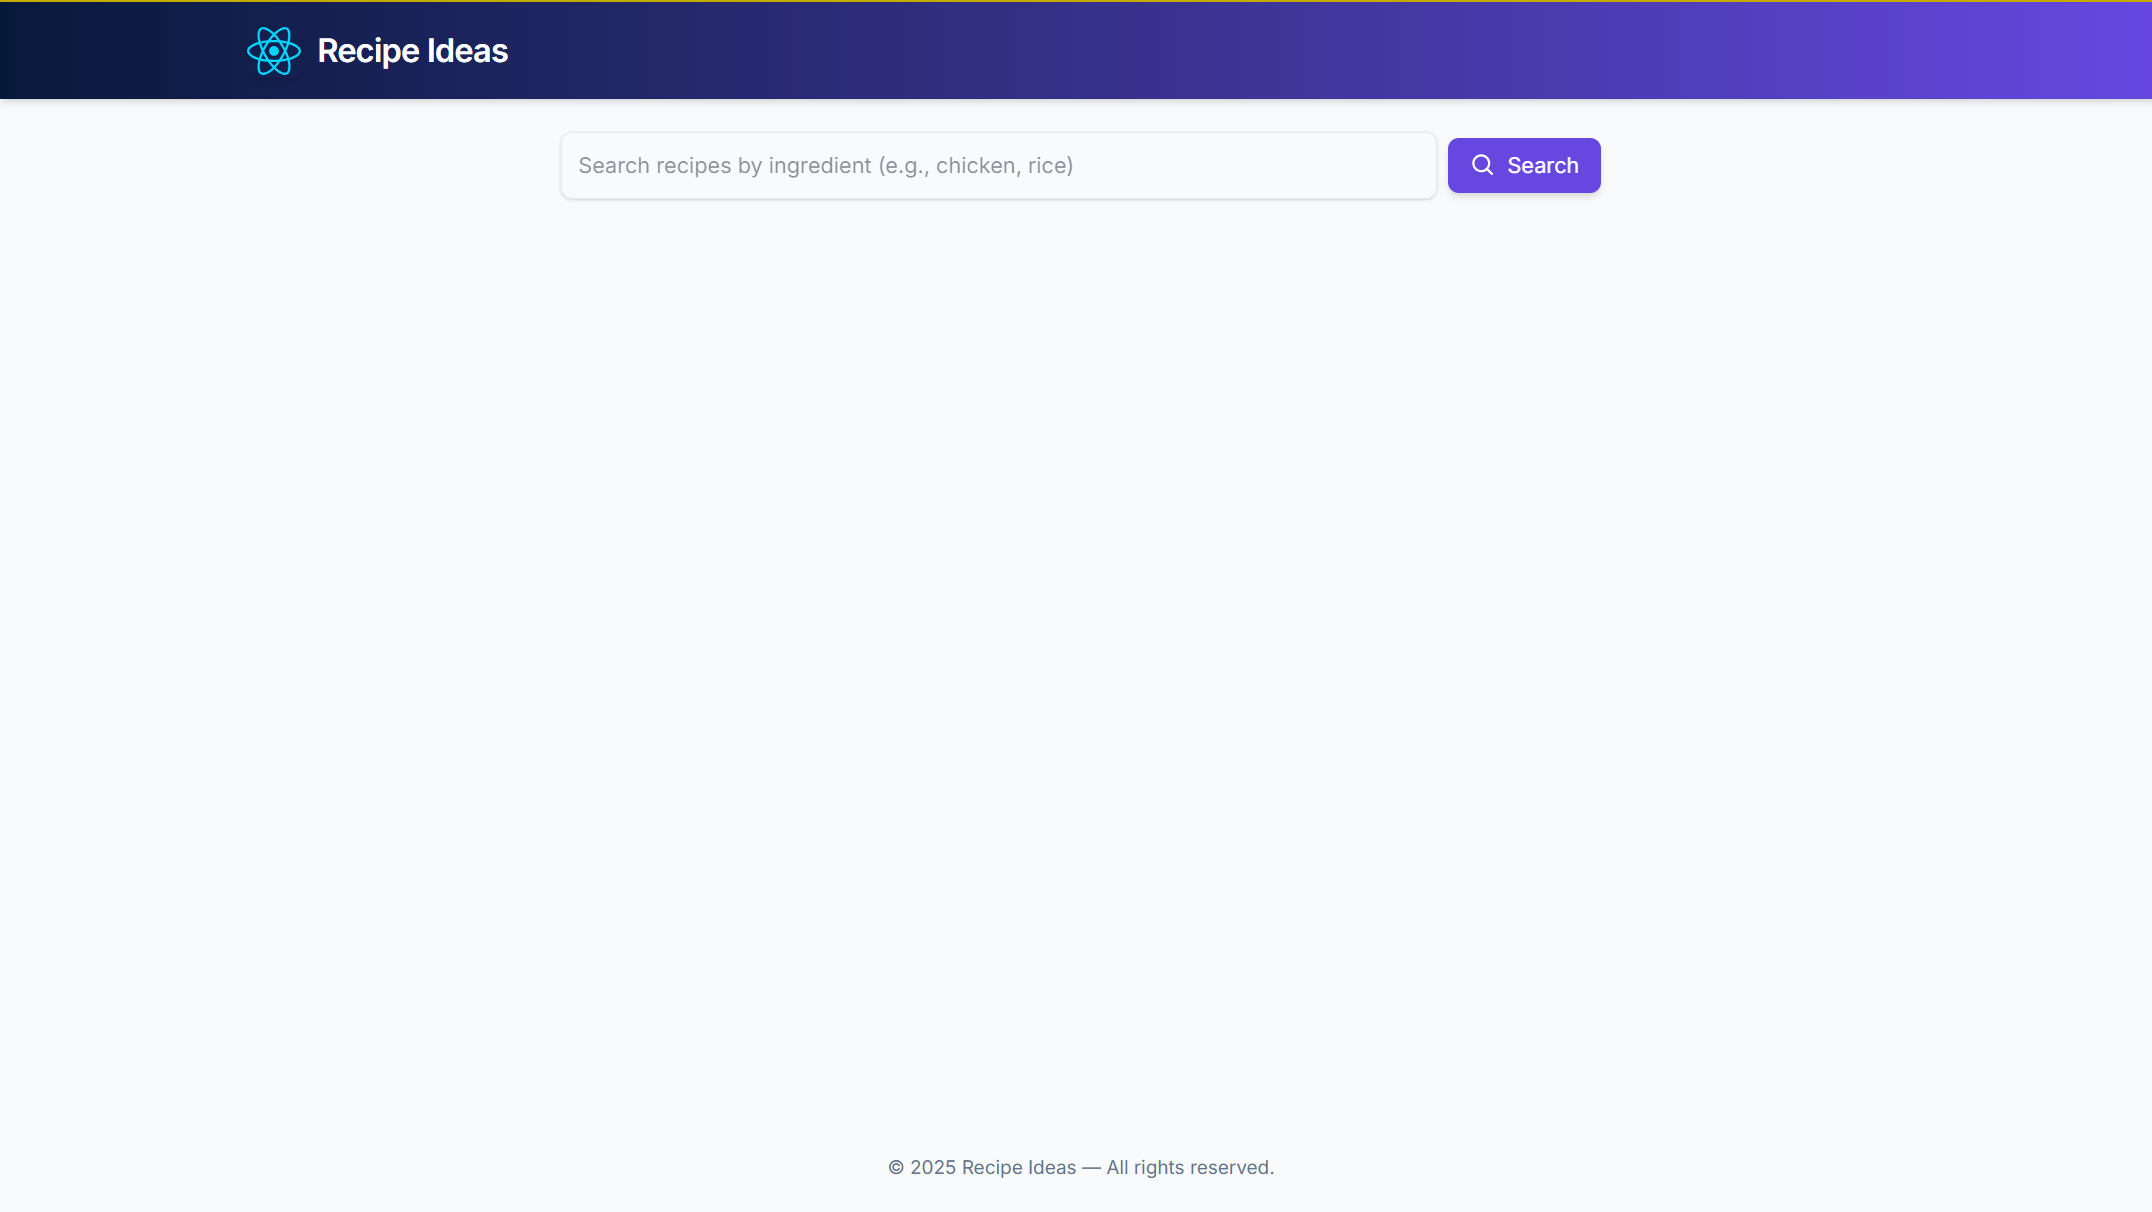
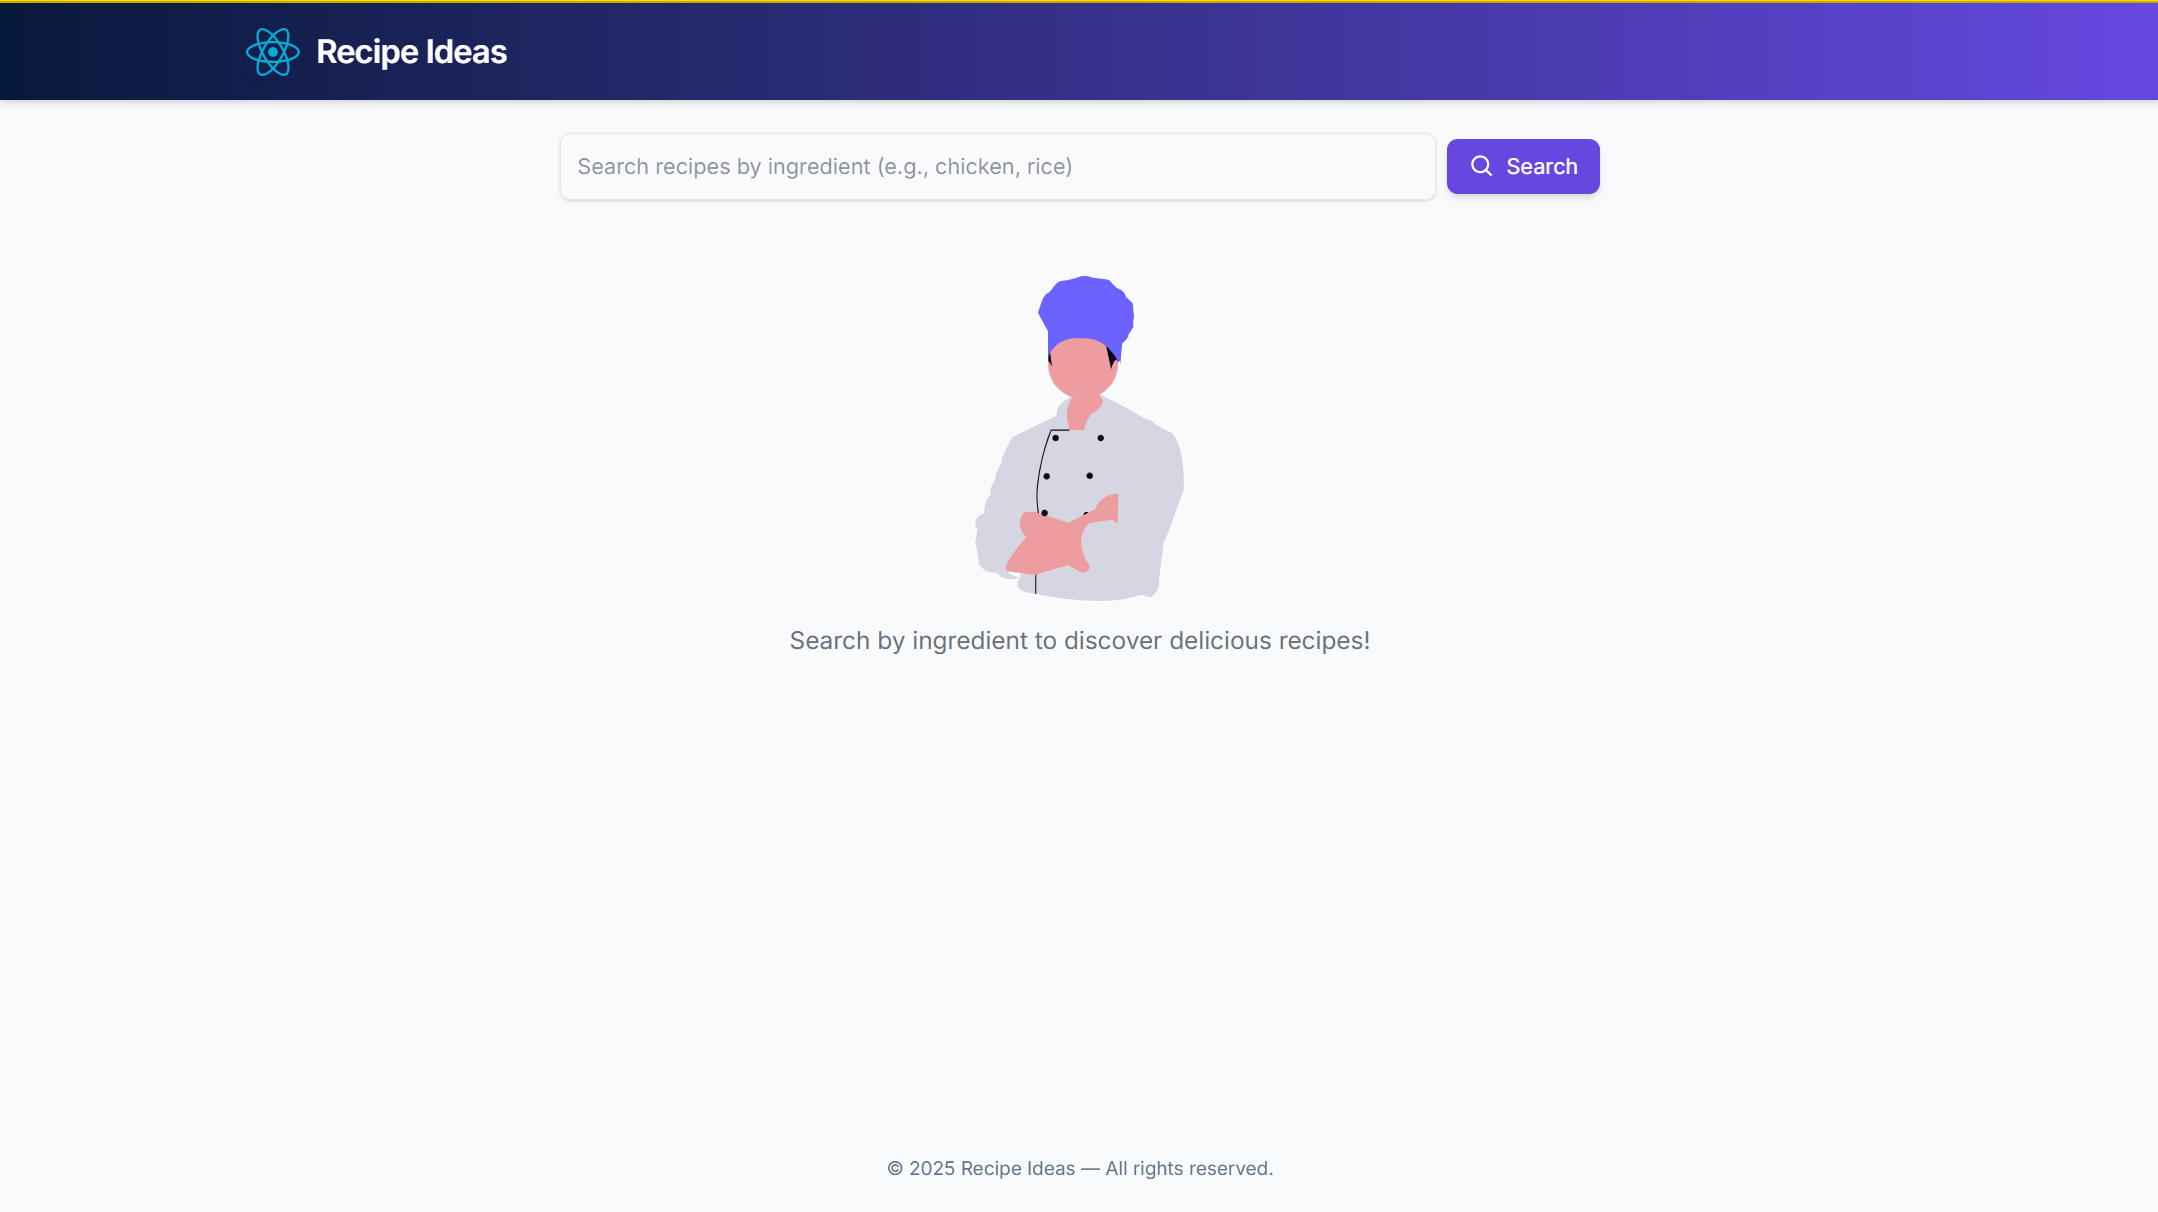
Commit

diff --git a/src/App.jsx b/src/App.jsx
@@ -1,6 +1,7 @@
 import React, { useState, useRef } from "react";
 import Header from "./components/Header";
 import SearchBar from "./components/SearchBar";
+import chefSvg from "./assets/chef.svg";
 import RecipeList from "./components/RecipeList";
 import RecipeModal from "./components/RecipeModal";
 import Loader from "./components/Loader";
@@ -12,12 +13,14 @@ export default function App() {
   const [query, setQuery] = useState("");
   const [selectedId, setSelectedId] = useState(null);
   const [error, setError] = useState(null);
+  const [noInput, setNoInput] = useState(false); // ✅ New state for empty search
 
   const searchVersion = useRef(0);
   const debounceTimer = useRef(null);
 
   const handleType = (term) => {
     setQuery(term);
+    setNoInput(false); // hide message when typing
     if (debounceTimer.current) clearTimeout(debounceTimer.current);
 
     debounceTimer.current = setTimeout(() => {
@@ -26,9 +29,18 @@ export default function App() {
   };
 
   async function handleSearch(term) {
+    // ✅ Validation for empty input
+    if (!term.trim()) {
+      setMeals([]);
+      setNoInput(true);
+      setError(null);
+      return;
+    }
+
     const currentVersion = ++searchVersion.current;
     setLoading(true);
     setError(null);
+    setNoInput(false);
 
     try {
       const data = await searchByIngredient(term);
@@ -46,14 +58,40 @@ export default function App() {
   }
 
   return (
-    <div className="min-h-screen flex flex-col">
+    <div className="min-h-screen flex flex-col bg-gray-50">
       <Header />
       <SearchBar onType={handleType} onSearch={handleSearch} initial={query} />
 
-      <main className="flex-1 max-w-7xl mx-auto w-full">
-        {loading && <Loader />} {/* ✅ Loader appears below search bar */}
-        {error && <p className="text-center text-red-500 py-4">{error}</p>}
-        {!loading && !error && (
+      <main className="flex-1 max-w-7xl mx-auto w-full px-4 pt-6">
+        {loading && <Loader />}
+
+        {error && (
+          <p className="text-center text-red-500 py-4 text-lg">{error}</p>
+        )}
+
+        {/* ✅ No input warning */}
+        {noInput && (
+          <p className="text-center text-yellow-600 py-4 text-lg font-medium">
+            Please enter an ingredient first.
+          </p>
+        )}
+
+        {/* Default Chef illustration */}
+        {!loading && !error && !noInput && meals.length === 0 && (
+          <div className="flex flex-col items-center justify-start mt-8">
+            <img
+              src={chefSvg}
+              alt="Chef Illustration"
+              className="w-40 h-40 sm:w-60 sm:h-60 opacity-80 animate-fadeIn"
+            />
+            <p className="mt-4 text-gray-500 text-lg font-medium text-center">
+              Search by ingredient to discover delicious recipes!
+            </p>
+          </div>
+        )}
+
+        {/* Recipe list */}
+        {!loading && !error && meals.length > 0 && (
           <RecipeList meals={meals} onOpen={(id) => setSelectedId(id)} />
         )}
       </main>
